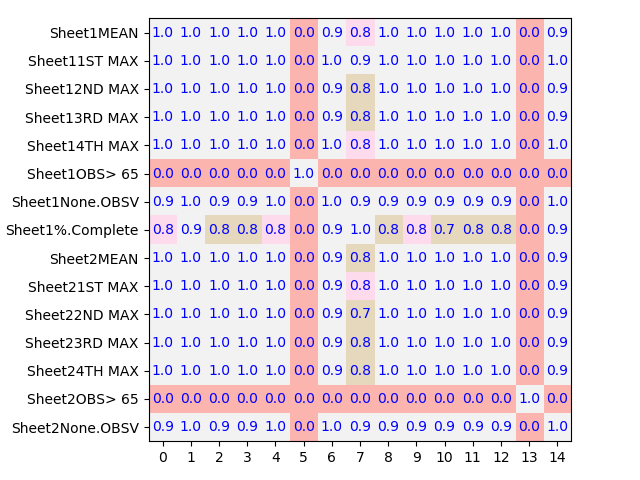
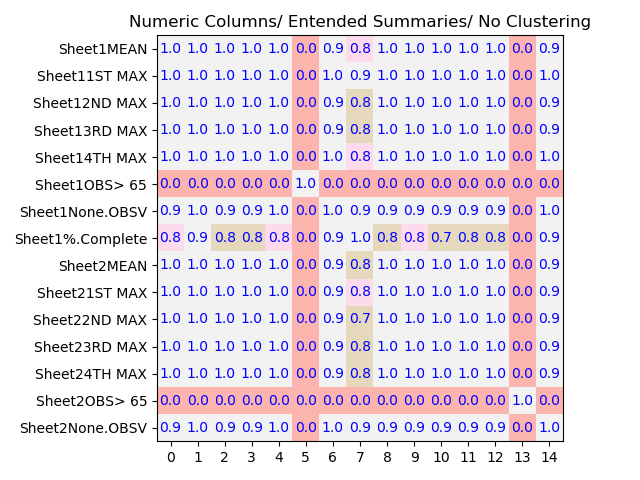
testing scripts

diff --git a/extract_test.py b/extract_test.py
@@ -1,0 +1,30 @@
+import keras
+import tensorflow as tf
+
+import keras.backend as K
+
+from components.parse_files.parser import Parser
+from components.utils.test import SimpleTest
+from components.column_summaries.features import Features
+
+import pickle
+
+if __name__ == '__main__':
+    with SimpleTest():
+        files = ["data_corpus/00sumdat_copy.xlsx", "data_corpus/1-1-10Na-Kinetic Curves.xlsx", "data_corpus/Aexperiment.xlsx"]
+        model_path = "models/NeuralNetwork/lstm.h5"
+
+        tf.compat.v1.logging.set_verbosity(tf.compat.v1.logging.ERROR)
+        model = keras.models.load_model(model_path)
+
+        parser = Parser(files[0], model)
+        results = []
+        for res in parser.parse():
+            results.append(res)
+            print(res)
+        pickle.dump(results, open('columns.p', "wb"))
+            # feature = Features(res, None)
+            # print(feature.data_type, feature.value_range, feature.max, feature.min, feature.mean,
+            #         feature.std, feature.mask, feature.common_values0, feature.common_frequencies0,
+            #         feature.common_values1, feature.common_frequencies1, feature.unique_num, feature.null_num,
+            #         feature.column_metadata, feature.file_metadata, "\n")

diff --git a/run.py b/run.py
@@ -1,0 +1,30 @@
+import keras
+import tensorflow as tf
+
+import keras.backend as K
+
+from components.parse_files.parser import Parser
+from components.utils.test import SimpleTest
+from components.column_summaries.features import Features
+
+import pickle
+
+if __name__ == '__main__':
+    with SimpleTest():
+        files = ["data_corpus/00sumdat_copy.xlsx", "data_corpus/1-1-10Na-Kinetic Curves.xlsx", "data_corpus/Aexperiment.xlsx"]
+        model_path = "models/NeuralNetwork/lstm.h5"
+
+        tf.compat.v1.logging.set_verbosity(tf.compat.v1.logging.ERROR)
+        model = keras.models.load_model(model_path)
+
+        parser = Parser(files[0], model)
+        results = []
+        for res in parser.parse():
+            results.append(res)
+            print(res)
+        pickle.dump(results, open('columns.p', "wb"))
+            # feature = Features(res, None)
+            # print(feature.data_type, feature.value_range, feature.max, feature.min, feature.mean,
+            #         feature.std, feature.mask, feature.common_values0, feature.common_frequencies0,
+            #         feature.common_values1, feature.common_frequencies1, feature.unique_num, feature.null_num,
+            #         feature.column_metadata, feature.file_metadata, "\n")

diff --git a/rel_test.py b/rel_test.py
@@ -45,8 +45,8 @@ for i in range(len(labels)):
     for j in range(len(labels)):
         text = ax.text(j, i, "{0:.1f}".format(cosine_matrix[i, j]),
                        ha="center", va="center", color="b")
-ax.set_title('')
+ax.set_title('Numeric Columns/ Entended Summaries/ No Clustering')
 ax.imshow(cosine_matrix, cmap='Pastel1')
 fig.tight_layout()
 # plt.show()
-plt.savefig('rel-numeric-noclusters.png')
+plt.savefig('testing/rel-numeric-noclusters.png')
